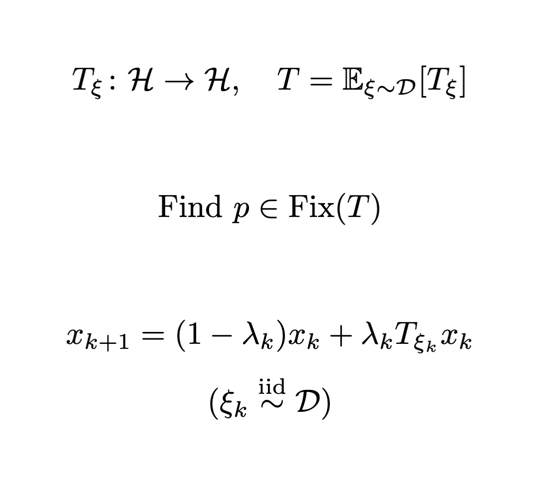
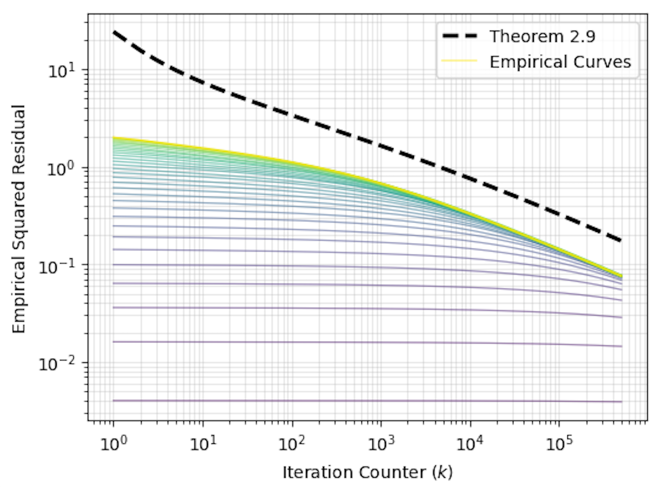
Updated Preview of SKM and Changed names of Slides

diff --git a/_pages/talks.md b/_pages/talks.md
@@ -18,25 +18,25 @@ The following is a list of my most recent and upcoming talks and presentations:
 
 - **SIAM Conference on Optimization (OP26)**, Edinburgh, Scotland. June 2026. [[Slides](/assets/pdf/presentations/2026_SIAM_Cortild.pdf)]
 
-- **Programme Gaspard Monge pour l’Optimisation (PGMO) Days 2025**, Paris, France. November 2025. [[Abstract](https://fondation-hadamard.fr/media/filer_public/04/be/04be6743-a757-4e3c-a930-4aa80b538c89/pgmodays_2025_book_of_abstracts.pdf#page=64), [Slides](/assets/pdf/presentations/2025_pgmo.pdf)]
+- **Programme Gaspard Monge pour l’Optimisation (PGMO) Days 2025**, Paris, France. November 2025. [[Abstract](https://fondation-hadamard.fr/media/filer_public/04/be/04be6743-a757-4e3c-a930-4aa80b538c89/pgmodays_2025_book_of_abstracts.pdf#page=64), [Slides](/assets/pdf/presentations/2025_PGMO_Cortild.pdf)]
 
-- **10èmes Journées Franco-Chiliennes pour l'Optimisation (JFCO)**, Rouen, France. July 2025. [[Abstract](https://jfco25.sciencesconf.org/data/program/Cortild_Ketels_JFCO_Abstract.pdf), [Slides](/assets/pdf/presentations/2025_jfco.pdf)]
+- **10èmes Journées Franco-Chiliennes pour l'Optimisation (JFCO)**, Rouen, France. July 2025. [[Abstract](https://jfco25.sciencesconf.org/data/program/Cortild_Ketels_JFCO_Abstract.pdf), [Slides](/assets/pdf/presentations/2025_JFCO_Cortild.pdf)]
 
-- **22nd Conference on Advanced in Continuous Optimization (EUROPT)**, Southampton, UK. June 2025. [[Slides](/assets/pdf/presentations/2025_europt.pdf)]
+- **22nd Conference on Advanced in Continuous Optimization (EUROPT)**, Southampton, UK. June 2025. [[Slides](/assets/pdf/presentations/2025_EUROPT_Cortild.pdf)]
 
-- **Dynamics, Optimization and Control at Bernoulli Institute**, Groningen, Netherlands. June 2025. [[Abstract](https://drive.google.com/file/d/19PC7yCJAg-pzsNJxz3P6uL0ZHqhNr8AT/view), [Slides](/assets/pdf/presentations/2025_obi.pdf)]
+- **Dynamics, Optimization and Control at Bernoulli Institute**, Groningen, Netherlands. June 2025. [[Abstract](https://drive.google.com/file/d/19PC7yCJAg-pzsNJxz3P6uL0ZHqhNr8AT/view), [Slides](/assets/pdf/presentations/2025_OBI_Cortild.pdf)]
 
-- **Benelux Meeting on Systems and Control 2025**, Egmond aan Zee, Netherlands. March 2025. [[Abstract](https://beneluxmeeting.nl/2025/uploads/papers/boa.pdf#page=97), [Slides](/assets/pdf/presentations/2025_benelux.pdf)]
+- **Benelux Meeting on Systems and Control 2025**, Egmond aan Zee, Netherlands. March 2025. [[Abstract](https://beneluxmeeting.nl/2025/uploads/papers/boa.pdf#page=97), [Slides](/assets/pdf/presentations/2025_Benelux_Cortild.pdf)]
 
 - **Programme Gaspard Monge pour l’Optimisation (PGMO) Days 2024**, Paris, France. November
   2024
-  [[Abstract](https://www.fondation-hadamard.fr/media/filer_public/e7/bb/e7bbbcfd-6932-4748-9983-9c281ecccf5e/pgmo-2024-booklet1.pdf#page=52), [Slides](/assets/pdf/presentations/2024_pgmo.pdf)]
+  [[Abstract](https://www.fondation-hadamard.fr/media/filer_public/e7/bb/e7bbbcfd-6932-4748-9983-9c281ecccf5e/pgmo-2024-booklet1.pdf#page=52), [Slides](/assets/pdf/presentations/2024_PGMO_Cortild.pdf)]
 
-- **21st Conference on Advanced in Continuous Optimization (EUROPT)**, Lund, Sweden. June 2024. [[Slides](/assets/pdf/presentations/2024_europt.pdf)]
+- **21st Conference on Advanced in Continuous Optimization (EUROPT)**, Lund, Sweden. June 2024. [[Slides](/assets/pdf/presentations/2024_EUROPT_Cortild.pdf)]
 
-- **Workshop on Nonsmooth Optimization and Applications (NOPTA)**, Antwerpen, Belgium. April 2024. [[Abstract](https://sites.google.com/view/wnopta/poster-presentation/cortild), [Poster](/assets/pdf/presentations/2024_nopta.pdf)]
+- **Workshop on Nonsmooth Optimization and Applications (NOPTA)**, Antwerpen, Belgium. April 2024. [[Abstract](https://sites.google.com/view/wnopta/poster-presentation/cortild), [Poster](/assets/pdf/presentations/2024_NOPTA_Cortild.pdf)]
 
-- **Optimization at Bernoulli Institute Workshop**, Groningen, Netherlands. June 2023. [[Slides](/assets/pdf/presentations/2023_obi.pdf)]
+- **Optimization at Bernoulli Institute Workshop**, Groningen, Netherlands. June 2023. [[Slides](/assets/pdf/presentations/2023_OBI_Cortild.pdf)]
 
 ## Seminar Talks
 
